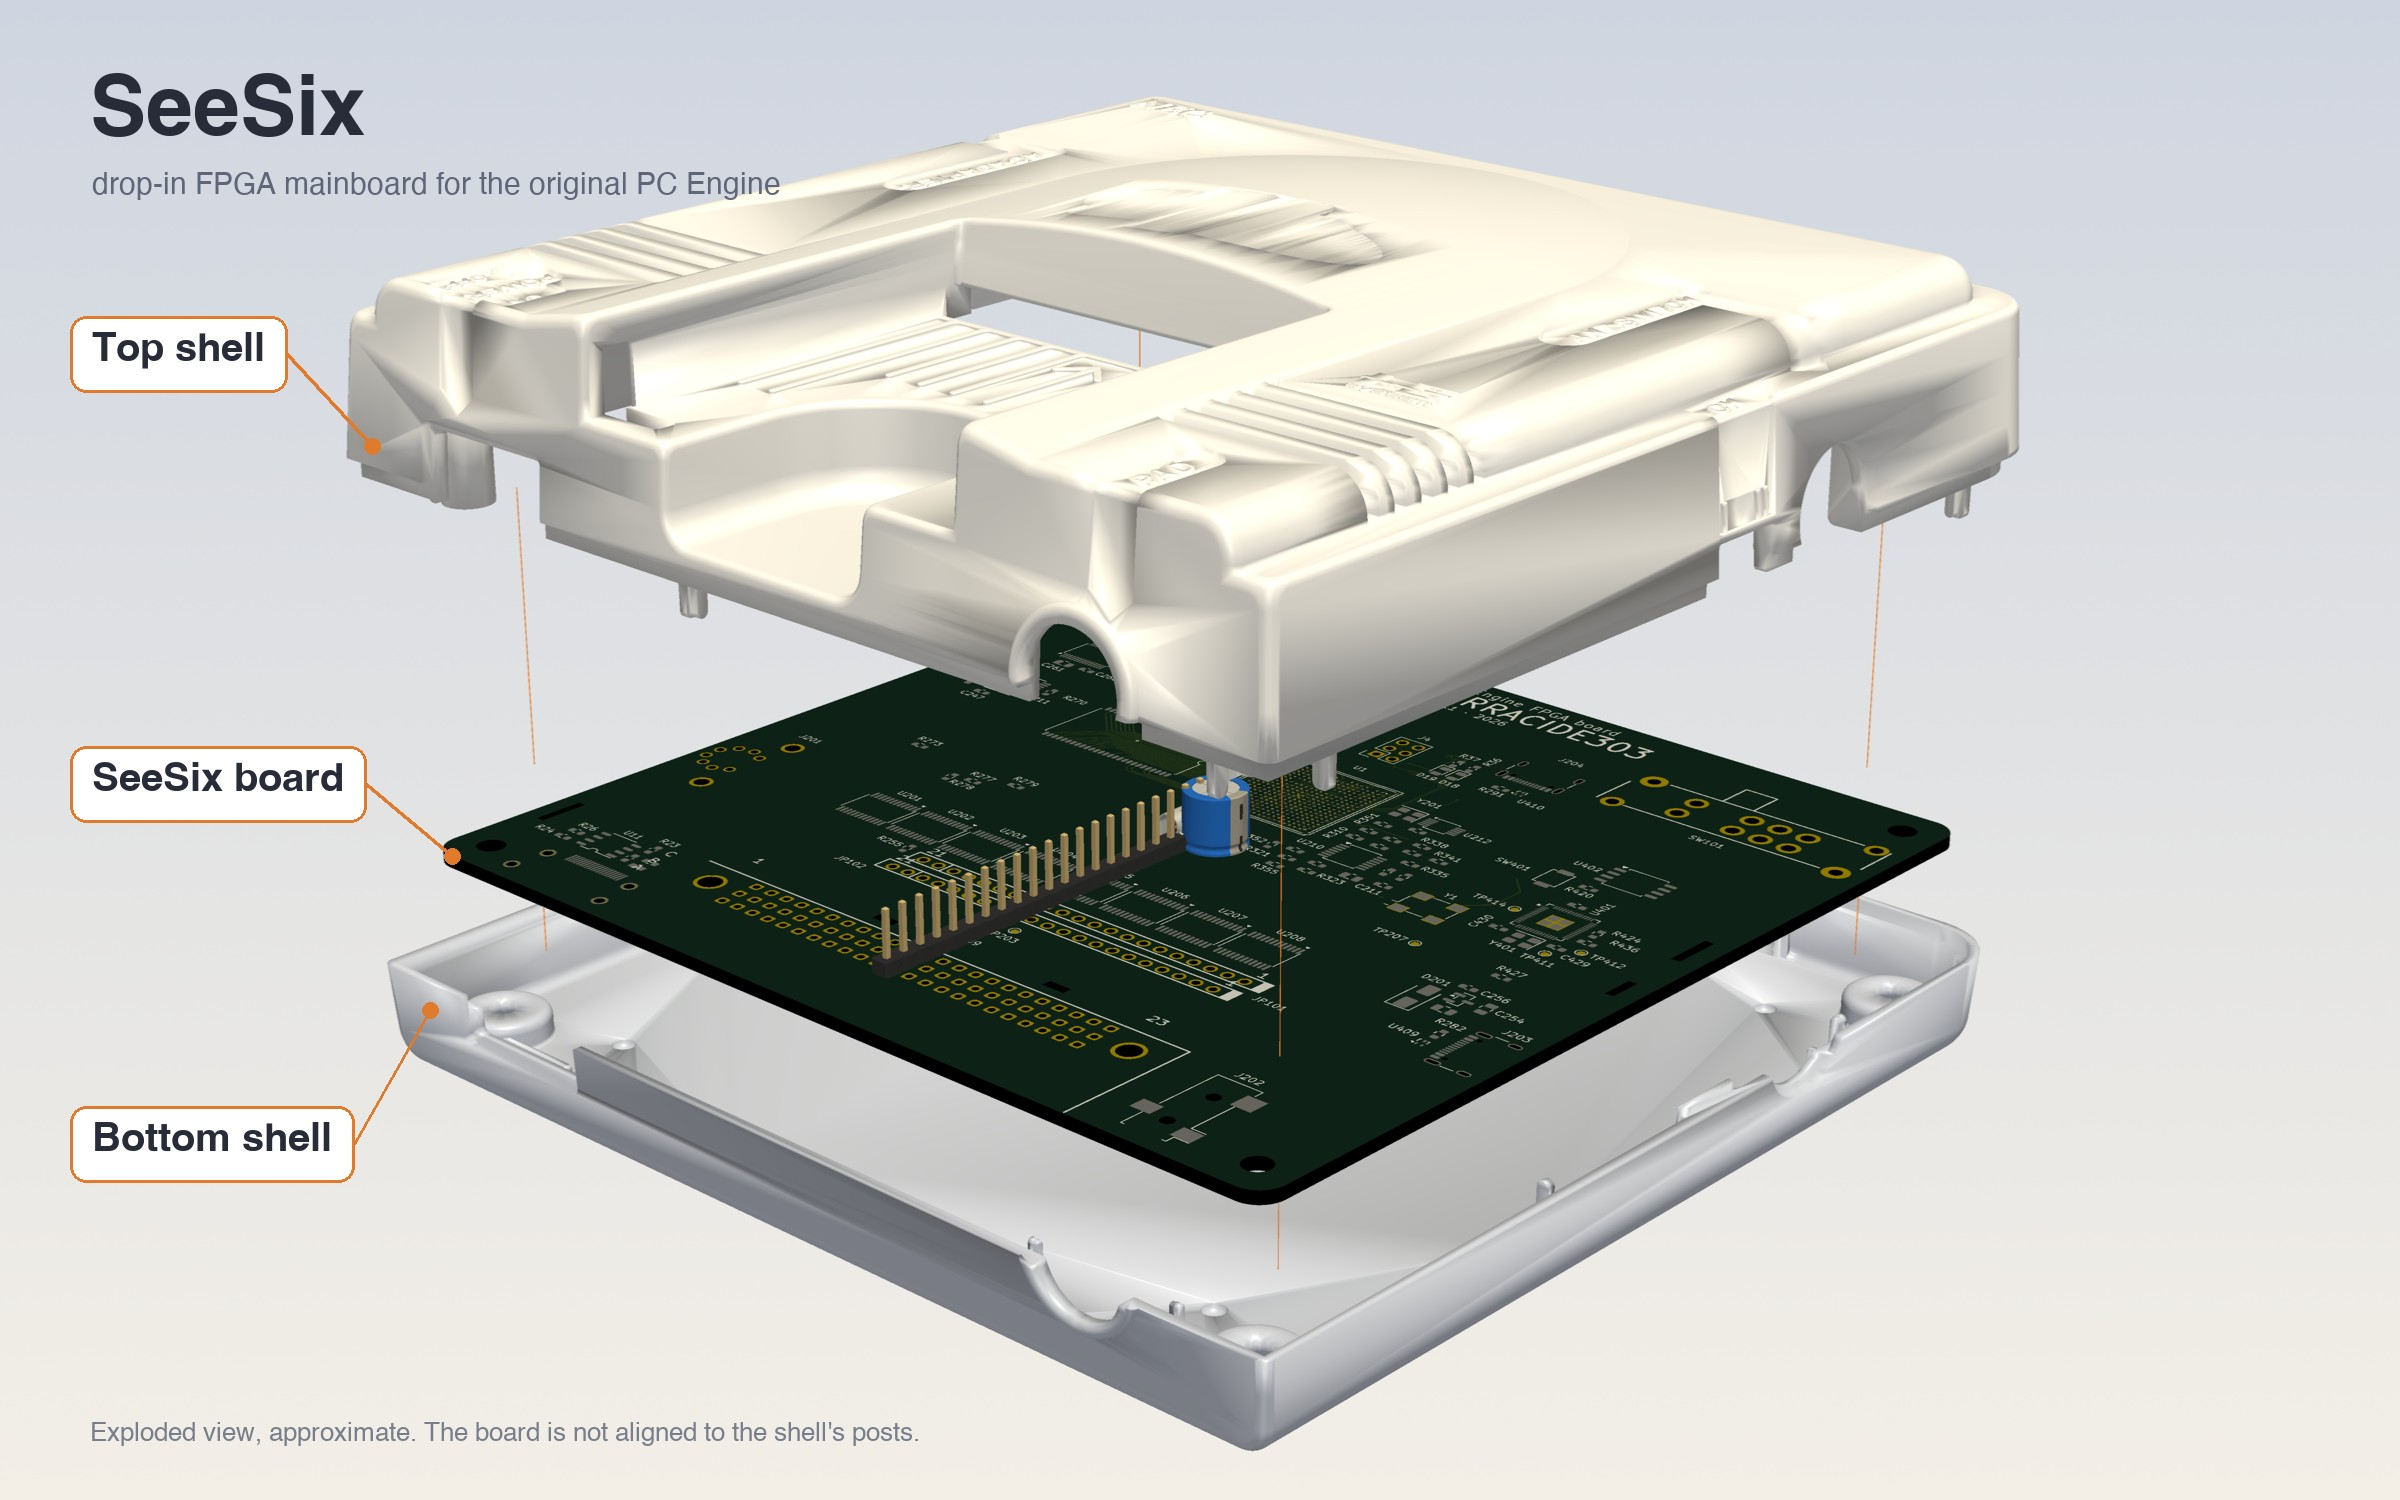
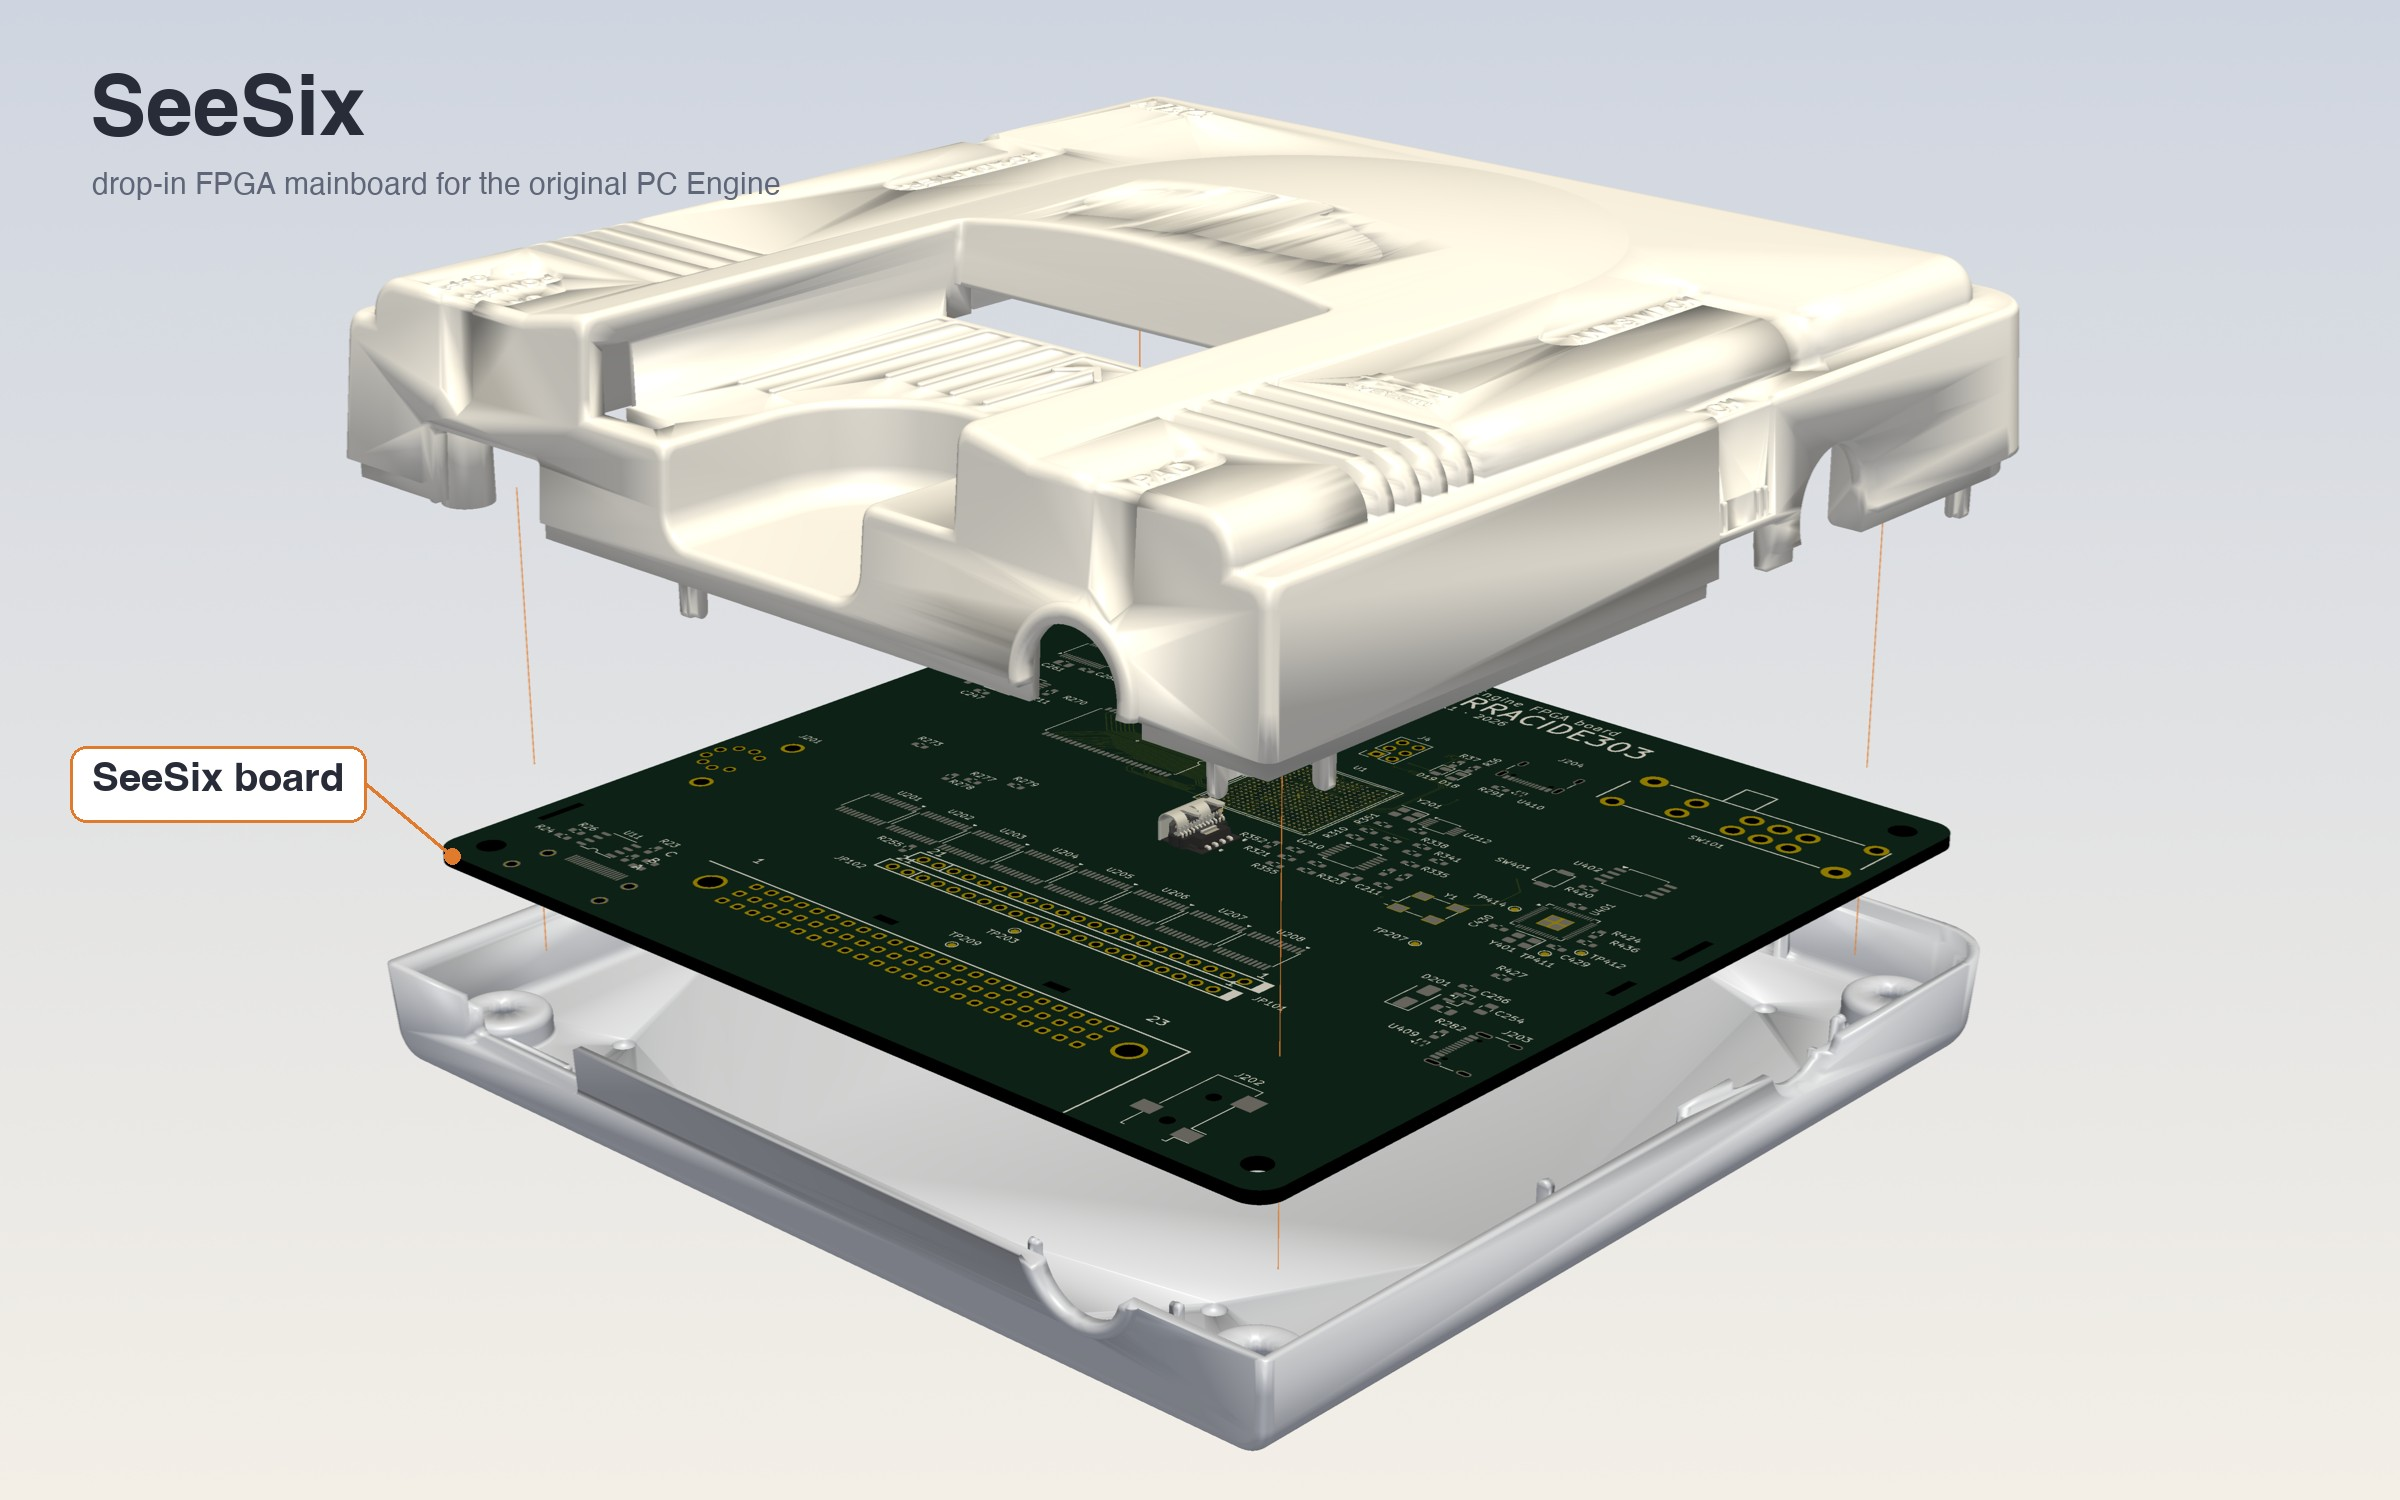
README: updated case picture, no approximate note
Claude-Session: https://claude.ai/code/session_01265qmFyDMUkENL28eDgosQ

diff --git a/README.md b/README.md
@@ -64,7 +64,7 @@ What you see in the pictures, from the front edge (top of the top view) to the b
 
 SeeSix is made to drop into the original PC Engine case. It is also possible to 3D print a complete new shell, and a customised shell that makes the new PCB fit is coming soon.
 
-*The picture is an approximate exploded view: the board is not aligned to the shell's posts. The shell in it is a third-party 3D model; its credit will be added.*
+*The shell in the picture is a third-party 3D model; its credit will be added.*
 
 ## Status
 
